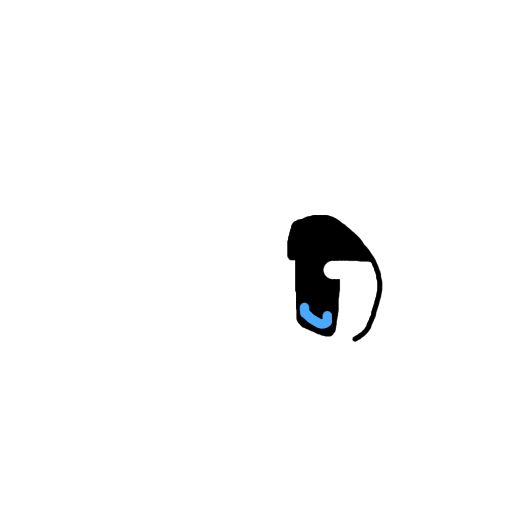
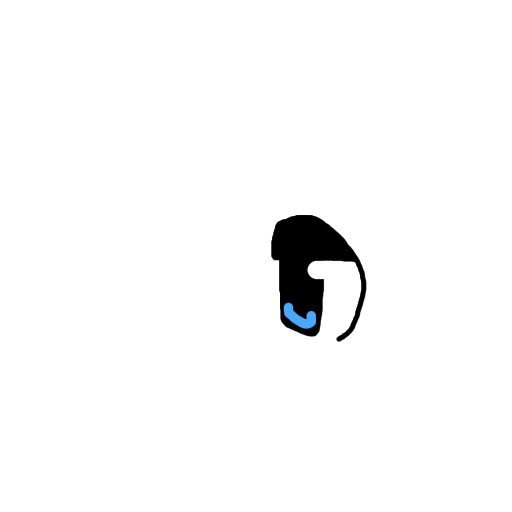
Improve face test

Changed region(s): [[0.5312, 0.4062, 0.75, 0.6875]]

diff --git a/main.c b/main.c
@@ -51,6 +51,7 @@ int main() {
 	
 	// let programmer initialize stuff
 	Layer *layers[] = {
+		create_layer(-0.32, "tex_backerhair.png"),
 		create_layer(-0.15, "tex_backhair.png"),
 		create_layer(-0.05, "tex_sidefrills.png"),
 		create_layer(-0.03, "tex_ears.png"),
@@ -58,8 +59,9 @@ int main() {
 		create_layer(0.07, "tex_eyeleft.png"),
 		create_layer(0.07, "tex_eyeright.png"),
 		create_layer(0.1, "tex_nose.png"),
-		create_layer(0.07, "tex_frills.png"),
-		create_layer(0.09, "tex_bangs.png"),
+		create_layer(0.06, "tex_frills.png"),
+		create_layer(0.06, "tex_baseofbangs.png"),
+		create_layer(0.12, "tex_bangs.png"),
 	};
 
 	float t = 0.0;
@@ -83,14 +85,16 @@ int main() {
 		// draw layers
 		for (int i = 0; i < sizeof(layers) / sizeof(Layer *); i++) {
 			layers[i]->roll = sin(t * 1.2563) * 0.1;
-			layers[i]->yaw = sin(t) * 0.7;
+			layers[i]->yaw = sin(t * 5) * 0.65;
 
-			if (i == 4) {
-				layers[i]->yaw -= 0.2;
-			}
+			// eyes yaw inwards more
 			if (i == 5) {
-				layers[i]->yaw += 0.2;
+				layers[i]->yaw -= 0.3;
 			}
+			if (i == 6) {
+				layers[i]->yaw += 0.3;
+			}
+
 			draw_layer(layers[i]);
 		}
 
